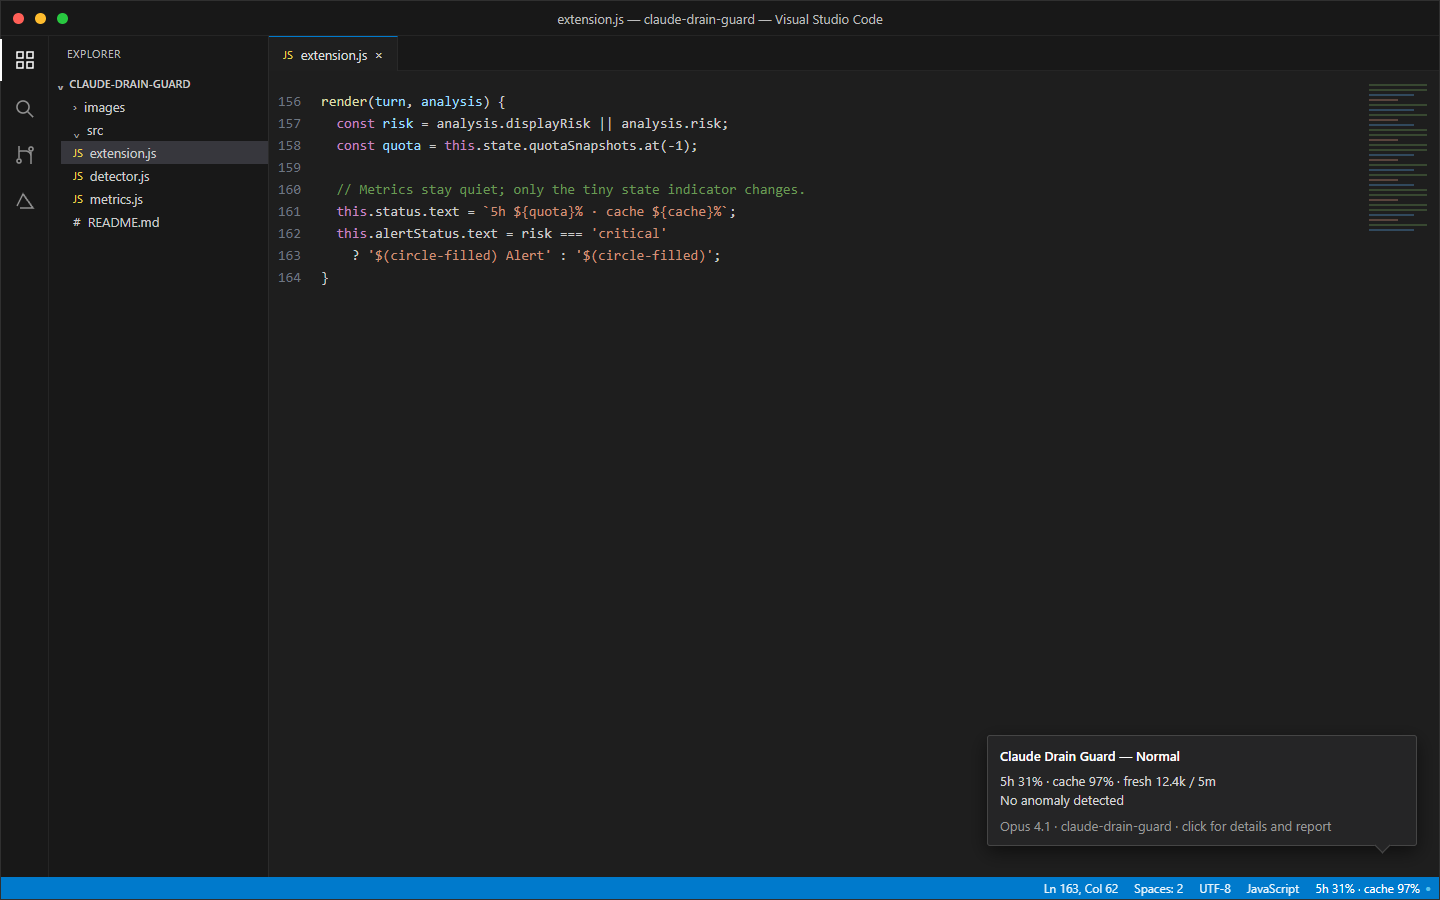
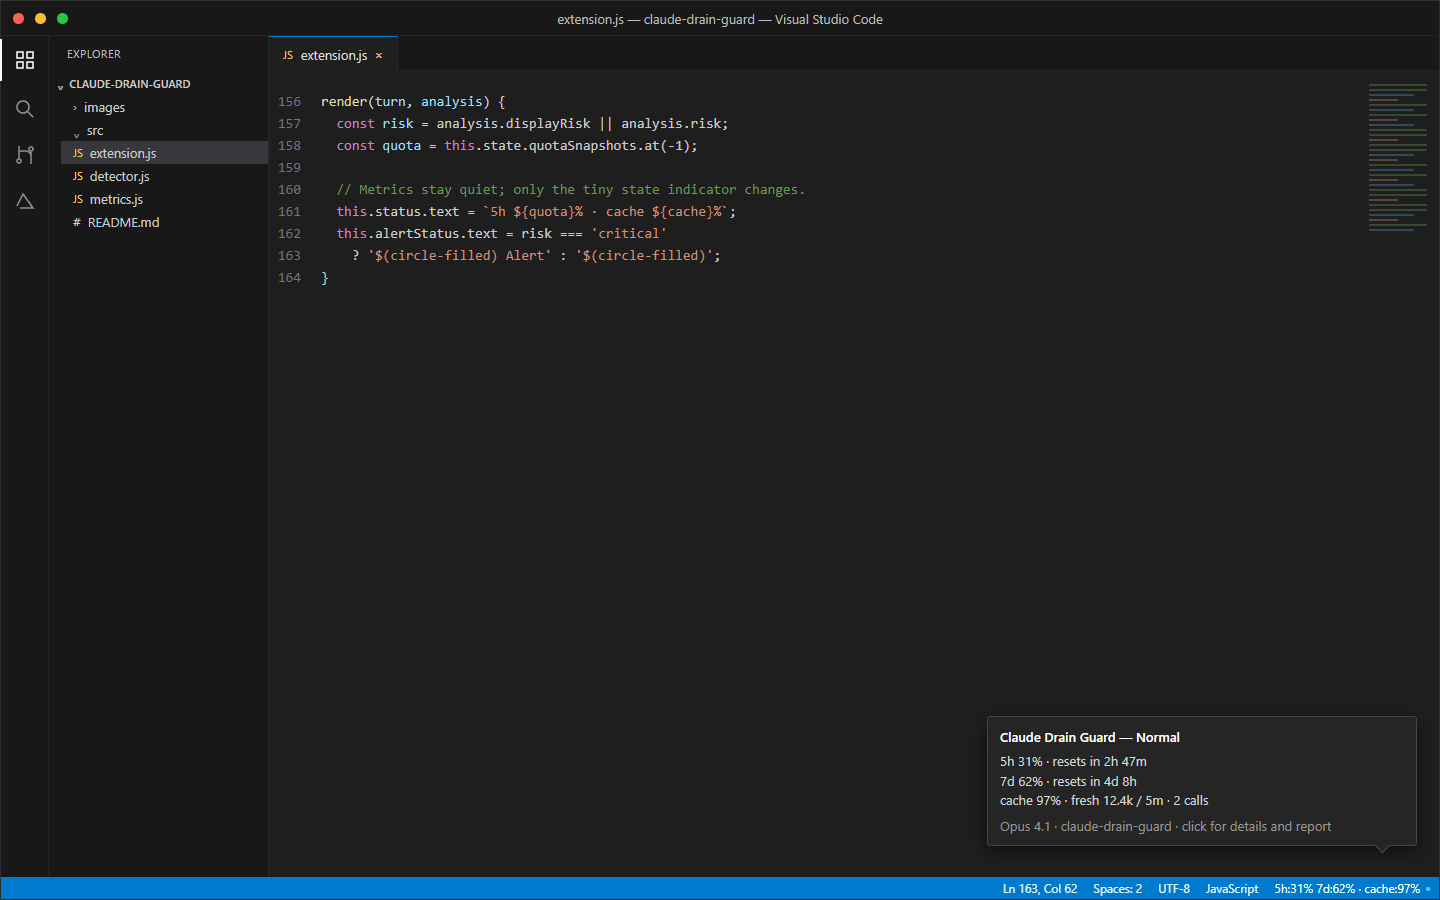
Fix status activation and add adaptive usage modes

Changed region(s): [[0.6875, 0.8089, 0.8438, 0.9022], [0.6875, 0.9644, 0.9688, 0.9956]]

diff --git a/src/extension.js b/src/extension.js
@@ -10,6 +10,7 @@ const { Store } = require('./store');
 const { generateReport } = require('./report');
 const { fetchQuota, quotaDelta, defaultCredentials } = require('./quota');
 const { recentJsonl, readJsonlIncrement } = require('./scanner');
+const { detectProvider, formatStatus } = require('./display');
 
 let guard;
 
@@ -17,6 +18,7 @@ class DrainGuard {
   constructor(context) {
     this.context = context;
     this.config = this.readConfig();
+    this.provider = detectProvider(this.config.dataDirectory, this.config.quotaCredentials);
     this.store = new Store(path.join(context.globalStorageUri.fsPath, 'metrics.json'));
     this.state = this.store.load();
     this.bootstrapping = true;
@@ -28,13 +30,19 @@ class DrainGuard {
     this.seenIds = new Set(this.state.seen);
     this.scanPromise = null;
     const alignment = this.config.alignment === 'left' ? vscode.StatusBarAlignment.Left : vscode.StatusBarAlignment.Right;
-    this.status = vscode.window.createStatusBarItem('claudeDrainGuard.usage', alignment, 92);
+    this.status = vscode.window.createStatusBarItem(alignment, 100);
     this.status.name = 'Claude Drain Guard';
     this.status.command = 'claudeDrainGuard.showDetails';
+    this.status.text = '5h — · cache —';
+    this.status.tooltip = 'Claude Drain Guard\nWaiting for Claude Code activity.';
     this.status.show();
-    this.alertStatus = vscode.window.createStatusBarItem('claudeDrainGuard.alert', alignment, 91);
+    this.alertStatus = vscode.window.createStatusBarItem(alignment, 99);
     this.alertStatus.name = 'Claude Drain Guard alert';
     this.alertStatus.command = 'claudeDrainGuard.showDetails';
+    this.alertStatus.text = '$(circle-filled)';
+    this.alertStatus.color = new vscode.ThemeColor('charts.blue');
+    this.alertStatus.tooltip = this.status.tooltip;
+    this.alertStatus.show();
     context.subscriptions.push(this.status, this.alertStatus);
   }
 
@@ -63,7 +71,7 @@ class DrainGuard {
       if (turn && this.lastAnalysis) {
         this.lastAnalysis.forecast = bootstrapForecast(this.state.slices.slice(-12).map(slice => slice.fresh));
         this.render(turn, this.lastAnalysis);
-      }
+      } else this.render(null, { risk: 'idle', alerts: [] });
     });
   }
 
@@ -207,7 +215,7 @@ class DrainGuard {
 
   render(turn, analysis) {
     if (!turn) {
-      this.status.text = '5h —';
+      this.status.text = '5h — · cache —';
       this.status.tooltip = `Claude Drain Guard\nWaiting for Claude Code activity.`;
       this.status.backgroundColor = undefined;
       this.alertStatus.text = '$(circle-filled)';
@@ -218,8 +226,8 @@ class DrainGuard {
     }
     const risk = analysis.displayRisk || analysis.risk;
     const quota = this.state.quotaSnapshots.at(-1);
-    const quotaPart = quota ? `5h ${(quota.utilization5h * 100).toFixed(0)}%` : '5h —';
-    this.status.text = `${quotaPart} · cache ${turn.cacheHit.toFixed(0)}%`;
+    const slice = this.state.slices.at(-1);
+    this.status.text = formatStatus({ quota, cacheHit: turn.cacheHit, sliceFresh: slice?.fresh || 0, provider: this.provider, quotaEnabled: this.config.quotaEnabled });
     this.status.backgroundColor = undefined;
     this.status.color = undefined;
     const tooltip = this.tooltip(turn, analysis);
@@ -246,11 +254,15 @@ class DrainGuard {
     const issues = (analysis.alerts || []).map(a => a.text).join(' · ') || 'No anomaly detected';
     const quota = this.state.quotaSnapshots.at(-1);
     const risk = analysis.displayRisk || analysis.risk;
-    const heading = risk === 'critical' ? 'Critical drain risk' : risk === 'warning' ? 'Elevated usage' : 'Normal';
-    const quotaRow = quota ? `${(quota.utilization5h * 100).toFixed(1)}%${quota.delta5h === null || quota.delta5h === undefined ? '' : ` (+${(quota.delta5h * 100).toFixed(1)} pts / 5m)`}` : this.config.quotaEnabled ? 'Unavailable' : 'Off';
+    const heading = risk === 'critical' ? 'Critical drain anomaly' : risk === 'warning' ? 'Usage anomaly' : 'Normal';
     const markdown = new vscode.MarkdownString(undefined, true);
     markdown.appendMarkdown(`**Claude Drain Guard — ${heading}**\n\n`);
-    markdown.appendMarkdown(`5h ${quotaRow} · cache ${turn.cacheHit.toFixed(0)}% · fresh ${compact(slice?.fresh || 0)} / 5m\n\n`);
+    if (quota) {
+      const delta = quota.delta5h === null || quota.delta5h === undefined ? '' : ` · Δ${(quota.delta5h * 100).toFixed(1)} pts / 5m`;
+      markdown.appendMarkdown(`5h ${(quota.utilization5h * 100).toFixed(1)}% · resets in ${formatReset(quota.reset5hAt)}${delta}\n\n`);
+      if (Number.isFinite(quota.utilization7d)) markdown.appendMarkdown(`7d ${(quota.utilization7d * 100).toFixed(1)}% · resets in ${formatReset(quota.reset7dAt)}\n\n`);
+    } else markdown.appendMarkdown(`${this.config.quotaEnabled ? 'Quota unavailable' : 'Quota sampling off'} · ${this.provider}\n\n`);
+    markdown.appendMarkdown(`cache ${turn.cacheHit.toFixed(0)}% · fresh ${compact(slice?.fresh || 0)} / 5m · ${slice?.calls || 0} calls\n\n`);
     if (analysis.alerts?.length) markdown.appendMarkdown(`${issues}\n\n`);
     markdown.appendMarkdown(`_${turn.model} · ${turn.project} · click for details and report_`);
     return markdown;
@@ -329,6 +341,15 @@ class DrainGuard {
 function projectFromPath(file, projectsRoot) {
   const relative = path.relative(projectsRoot, file);
   return relative.split(path.sep)[0] || 'unknown';
+}
+
+function formatReset(timestamp) {
+  if (!timestamp) return 'unknown';
+  const minutes = Math.max(0, Math.ceil((timestamp - Date.now()) / 60_000));
+  if (minutes < 60) return `${minutes}m`;
+  const hours = Math.floor(minutes / 60), remainder = minutes % 60;
+  if (hours < 24) return remainder ? `${hours}h ${remainder}m` : `${hours}h`;
+  return `${Math.floor(hours / 24)}d ${hours % 24}h`;
 }
 
 function activate(context) {

diff --git a/test/activation.test.js b/test/activation.test.js
@@ -1,0 +1,56 @@
+'use strict';
+
+const test = require('node:test');
+const assert = require('node:assert/strict');
+const fs = require('fs');
+const os = require('os');
+const path = require('path');
+const Module = require('module');
+
+test('activation immediately renders non-empty right-side status items', async () => {
+  const directory = fs.mkdtempSync(path.join(os.tmpdir(), 'drain-guard-activation-'));
+  const items = [];
+  const mockVscode = {
+    StatusBarAlignment: { Left: 1, Right: 2 },
+    ThemeColor: class ThemeColor { constructor(id) { this.id = id; } },
+    ConfigurationTarget: { Global: 1 },
+    workspace: {
+      getConfiguration: () => ({
+        get: (key, fallback) => key === 'dataDirectory' ? directory : fallback,
+        update: async () => {}
+      }),
+      openTextDocument: async () => ({})
+    },
+    window: {
+      createStatusBarItem: (alignment) => {
+        const item = { alignment, visible: false, show() { this.visible = true; }, hide() { this.visible = false; }, dispose() {} };
+        items.push(item);
+        return item;
+      },
+      showQuickPick: async () => undefined,
+      showInputBox: async () => undefined,
+      showInformationMessage: async () => undefined,
+      showWarningMessage: async () => undefined,
+      showErrorMessage: async () => undefined,
+      showTextDocument: async () => undefined
+    },
+    commands: { registerCommand: () => ({ dispose() {} }) }
+  };
+  const originalLoad = Module._load;
+  Module._load = function load(request, parent, isMain) {
+    return request === 'vscode' ? mockVscode : originalLoad.call(this, request, parent, isMain);
+  };
+  try {
+    const extension = require('../src/extension');
+    const context = { globalStorageUri: { fsPath: path.join(directory, 'state') }, subscriptions: [] };
+    extension.activate(context);
+    assert.equal(items.length, 2);
+    assert.equal(items.every(item => item.alignment === mockVscode.StatusBarAlignment.Right), true);
+    assert.equal(items.every(item => item.visible && item.text), true);
+    assert.equal(items[0].text, '5h — · cache —');
+    for (const disposable of context.subscriptions) disposable.dispose?.();
+    await extension.deactivate();
+  } finally {
+    Module._load = originalLoad;
+  }
+});

diff --git a/src/display.js b/src/display.js
@@ -1,0 +1,35 @@
+'use strict';
+
+const fs = require('fs');
+const path = require('path');
+const { compact } = require('./detector');
+
+function detectProvider(dataDirectory, credentialsPath = '', env = process.env) {
+  const credential = credentialsPath || path.join(dataDirectory, '.credentials.json');
+  if (fs.existsSync(credential)) return 'claude-ai';
+  if (env.ANTHROPIC_BEDROCK_BASE_URL || env.AWS_BEDROCK_RUNTIME_URL || env.CLAUDE_AWS_REGION) return 'aws-bedrock';
+  if (env.ANTHROPIC_API_KEY) return 'api-key';
+  return 'unknown';
+}
+
+function ageLabel(timestamp, now = Date.now()) {
+  const minutes = Math.max(0, Math.floor((now - timestamp) / 60_000));
+  if (minutes < 60) return `${minutes}m`;
+  const hours = Math.floor(minutes / 60);
+  if (hours < 24) return `${hours}h`;
+  return `${Math.floor(hours / 24)}d`;
+}
+
+function formatStatus({ quota, cacheHit, sliceFresh = 0, provider = 'unknown', quotaEnabled = false, now = Date.now() }) {
+  const cache = Number.isFinite(cacheHit) ? `cache:${Math.round(cacheHit)}%` : 'cache:—';
+  if (quota && Number.isFinite(quota.utilization5h)) {
+    const parts = [`5h:${Math.round(quota.utilization5h * 100)}%`];
+    if (Number.isFinite(quota.utilization7d)) parts.push(`7d:${Math.round(quota.utilization7d * 100)}%`);
+    if (now - quota.timestamp > 10 * 60_000) parts.push(`[${ageLabel(quota.timestamp, now)}]`);
+    return `${parts.join(' ')} · ${cache}`;
+  }
+  if (provider === 'aws-bedrock' || provider === 'api-key') return `${cache} · 5m:${compact(sliceFresh)}`;
+  return `${cache} · ${quotaEnabled ? 'offline' : 'local'}`;
+}
+
+module.exports = { detectProvider, ageLabel, formatStatus };

diff --git a/test/display.test.js b/test/display.test.js
@@ -1,0 +1,18 @@
+'use strict';
+
+const test = require('node:test');
+const assert = require('node:assert/strict');
+const { formatStatus } = require('../src/display');
+
+test('status formats 5h, optional 7d, stale age, and cache', () => {
+  const now = 2_000_000;
+  assert.equal(formatStatus({ quota: { utilization5h: 0.45, utilization7d: 0.62, timestamp: now }, cacheHit: 96.6, now }), '5h:45% 7d:62% · cache:97%');
+  assert.equal(formatStatus({ quota: { utilization5h: 0.45, utilization7d: null, timestamp: now }, cacheHit: 96.6, now }), '5h:45% · cache:97%');
+  assert.equal(formatStatus({ quota: { utilization5h: 0.45, utilization7d: null, timestamp: now - 11 * 60_000 }, cacheHit: 96.6, now }), '5h:45% [11m] · cache:97%');
+});
+
+test('local provider modes keep cache prominent', () => {
+  assert.equal(formatStatus({ cacheHit: 91, sliceFresh: 12400, provider: 'api-key' }), 'cache:91% · 5m:12k');
+  assert.equal(formatStatus({ cacheHit: 91, provider: 'unknown' }), 'cache:91% · local');
+  assert.equal(formatStatus({ cacheHit: 91, provider: 'unknown', quotaEnabled: true }), 'cache:91% · offline');
+});

diff --git a/CHANGELOG.md b/CHANGELOG.md
@@ -1,5 +1,18 @@
 # Changelog
 
+## 0.8.0
+
+- Added adaptive Claude.ai 5h/7d, 5h-only, stale, local, API-key, and Bedrock status formats.
+- Kept cache hit visible in every active status format.
+- Kept quota percentages informational: only drain-anomaly signals control the blue/yellow/red indicator.
+- Avoided inaccurate dollar estimates when the active model's pricing is unknown.
+
+## 0.7.1
+
+- Fixed the right-side usage and state items not appearing before the first valid usage record.
+- Added an explicit `5h — · cache —` idle state that renders immediately on activation.
+- Matched the stable two-argument status-item creation pattern used by `vscode-claude-status`.
+
 ## 0.7.0
 
 - Replaced repeated recursive scans with direct event-driven reads of changed JSONL files.

diff --git a/README.md b/README.md
@@ -14,6 +14,8 @@ Five-hour usage and cache hit stay visible in a small item on the right. A separ
 
 Click the item and select **Refresh every Ns** to set a 1–60 second background refresh interval. The default is 15 seconds; file changes still trigger an immediate incremental read.
 
+Quota display adapts to the available data: Claude.ai 5h/7d, 5h-only, stale quota, or local API/Bedrock usage. Cache hit remains visible in every active mode. The colored indicator is independent of the quota percentage: only cache, fresh-token, change-point, and sudden-drain anomaly signals change it.
+
 ## Signals
 
 - Per-turn cache hit and fresh-token spike
